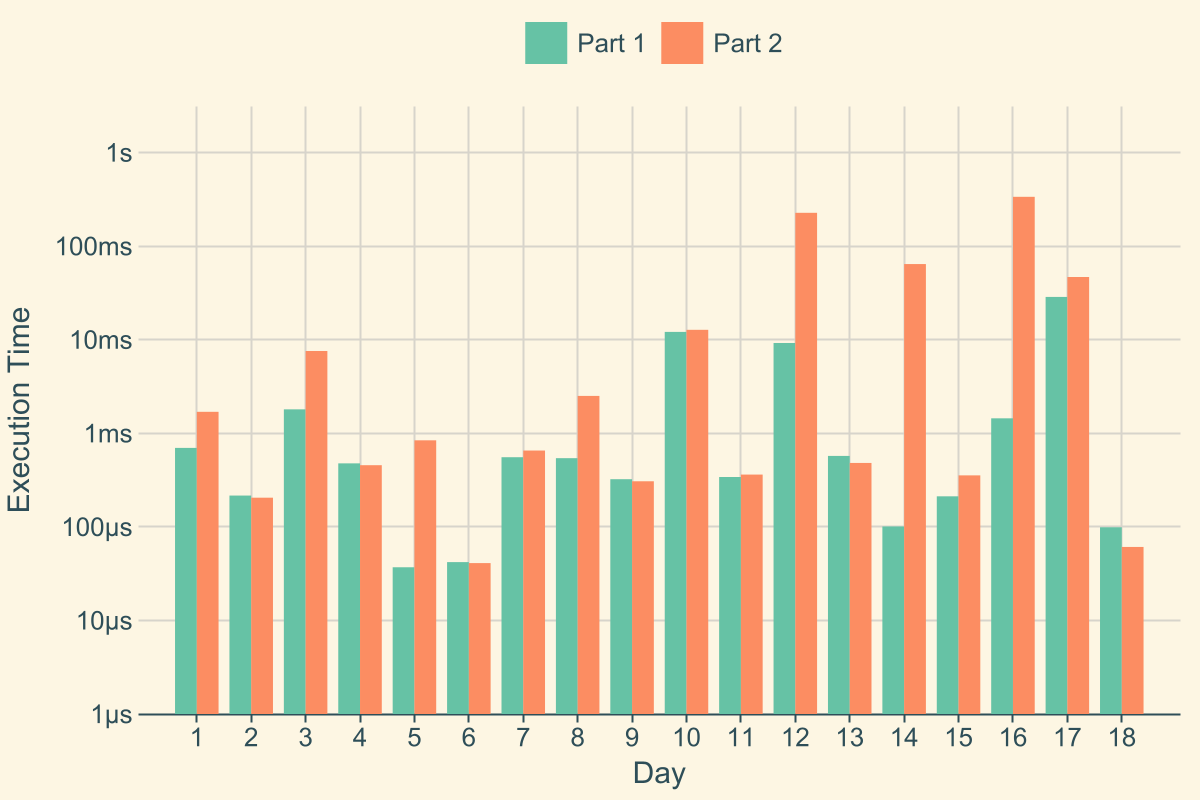
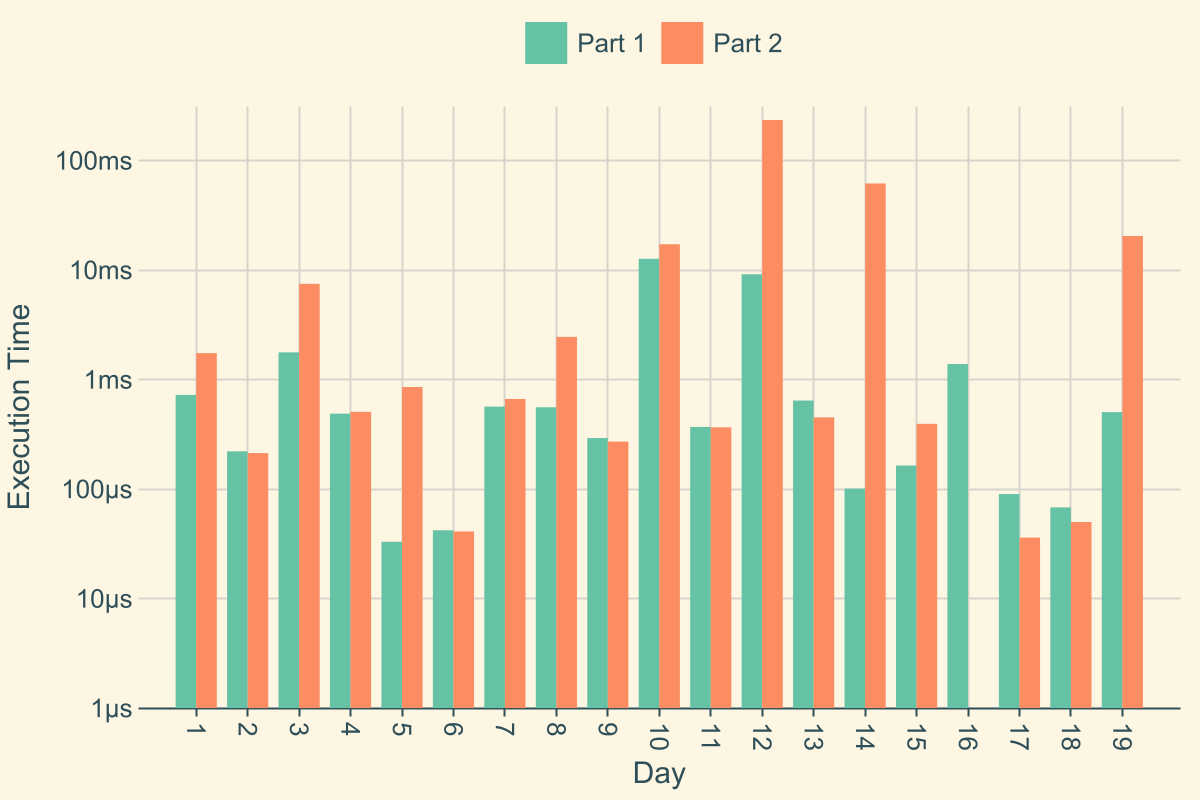
19

diff --git a/src/day19.rs b/src/day19.rs
@@ -1,0 +1,330 @@
+use std::collections::HashMap;
+use std::fmt::{Debug, Formatter};
+use std::str::FromStr;
+
+use crate::harness::{Day, Part};
+
+pub fn day19() -> Day<u32, u64> {
+    Day::new(19, Box::new(Part1 {}), Box::new(Part2 {}))
+}
+
+struct Part1;
+
+impl Part<u32> for Part1 {
+    fn expect_test(&self) -> u32 {
+        19114
+    }
+
+    fn solve(&self, input: &[String]) -> u32 {
+        let (workflows, mut machine_parts) = parse(input);
+
+        machine_parts.retain(|machine_part| {
+            let mut next = &Next::Workflow("in".to_string());
+
+            while let Next::Workflow(name) = next {
+                next = workflows[name].next(machine_part);
+            }
+
+            matches!(next, Next::Accept)
+        });
+
+        machine_parts.iter().map(|e| e.x + e.m + e.a + e.s).sum()
+    }
+}
+
+struct Part2;
+
+impl Part<u64> for Part2 {
+    fn expect_test(&self) -> u64 {
+        167409079868000
+    }
+
+    fn solve(&self, input: &[String]) -> u64 {
+        solve_part_2(&parse(input).0)
+            .iter()
+            .map(RecRanges::combinations)
+            .sum()
+    }
+}
+
+fn solve_part_2(map: &HashMap<String, Workflow>) -> Vec<RecRanges> {
+    solve_part_2_rec(map, &Next::Workflow("in".to_string()), RecRanges::default())
+}
+
+#[derive(Clone)]
+struct MyRange([bool; 4000]);
+
+impl Debug for MyRange {
+    fn fmt(&self, f: &mut Formatter<'_>) -> std::fmt::Result {
+        let x: String = self.0.map(|e| if e { '1' } else { '0' }).iter().collect();
+
+        write!(f, "{}", x)
+    }
+}
+
+impl MyRange {
+    pub fn new(min: u32, max_inclusive: u32) -> Self {
+        let mut x = [false; 4000];
+
+        for i in min..=max_inclusive {
+            x[i as usize - 1] = true;
+        }
+
+        Self(x)
+    }
+
+    fn count(&self) -> u64 {
+        self.0.iter().filter(|&&e| e).count() as u64
+    }
+
+    fn except(&mut self, rhs: &Self) {
+        for i in 0..4000 {
+            self.0[i] = self.0[i] && !rhs.0[i];
+        }
+    }
+
+    fn intersect(&mut self, rhs: &Self) {
+        for i in 0..4000 {
+            self.0[i] = self.0[i] && rhs.0[i];
+        }
+    }
+}
+
+impl From<&Rule> for MyRange {
+    fn from(rule: &Rule) -> Self {
+        match rule.operator {
+            Operator::GreaterThan => MyRange::new(rule.value + 1, 4000),
+            Operator::LessThan => MyRange::new(1, rule.value - 1),
+        }
+    }
+}
+
+impl Default for MyRange {
+    fn default() -> Self {
+        Self([true; 4000])
+    }
+}
+
+#[derive(Debug, Clone, Default)]
+struct RecRanges {
+    x: MyRange,
+    m: MyRange,
+    a: MyRange,
+    s: MyRange,
+}
+
+impl RecRanges {
+    fn combinations(&self) -> u64 {
+        self.x.count() * self.m.count() * self.a.count() * self.s.count()
+    }
+
+    fn get_range_mut(&mut self, rule: &Rule) -> &mut MyRange {
+        match rule.variable {
+            'x' => &mut self.x,
+            'm' => &mut self.m,
+            'a' => &mut self.a,
+            's' => &mut self.s,
+            _ => panic!(),
+        }
+    }
+}
+
+fn solve_part_2_rec(workflows: &HashMap<String, Workflow>, next: &Next, mut state: RecRanges) -> Vec<RecRanges> {
+    match next {
+        Next::Accept => vec![state],
+        Next::Reject => vec![],
+        Next::Workflow(name) => {
+            let mut result = vec![];
+
+            let workflow = &workflows[name];
+
+            for rule in &workflow.rules {
+                let mut next_state = state.clone();
+
+                next_state.get_range_mut(rule).intersect(&rule.into());
+                state.get_range_mut(rule).except(&rule.into());
+
+                result.append(&mut solve_part_2_rec(workflows, &rule.next, next_state));
+            }
+
+            result.append(&mut solve_part_2_rec(workflows, &workflow.on_all_false, state));
+
+            result
+        }
+    }
+}
+
+fn parse(input: &[String]) -> (HashMap<String, Workflow>, Vec<MachinePart>) {
+    let mut split = input.split(|e| e.is_empty());
+    let workflows =
+        split.next().unwrap().iter()
+            .map(|e| Workflow::from_str(e).unwrap())
+            .map(|e| (e.name.clone(), e))
+            .collect::<HashMap<_, _>>();
+    let machine_parts = split.next().unwrap().iter().map(|e| MachinePart::from_str(e).unwrap()).collect::<Vec<_>>();
+
+    (workflows, machine_parts)
+}
+
+#[derive(Debug)]
+enum Next {
+    Accept,
+    Reject,
+    Workflow(String),
+}
+
+impl FromStr for Next {
+    type Err = ();
+
+    fn from_str(s: &str) -> Result<Self, Self::Err> {
+        match s {
+            "A" => Ok(Self::Accept),
+            "R" => Ok(Self::Reject),
+            _ => Ok(Self::Workflow(s.to_string()))
+        }
+    }
+}
+
+#[derive(Debug)]
+enum Operator {
+    GreaterThan,
+    LessThan,
+}
+
+impl TryFrom<char> for Operator {
+    type Error = ();
+
+    fn try_from(value: char) -> Result<Self, Self::Error> {
+        match value {
+            '<' => Ok(Self::LessThan),
+            '>' => Ok(Self::GreaterThan),
+            _ => Err(()),
+        }
+    }
+}
+
+#[derive(Debug)]
+struct Workflow {
+    name: String,
+    rules: Vec<Rule>,
+    on_all_false: Next,
+}
+
+impl Workflow {
+    fn new(name: String, rules: Vec<Rule>, on_all_false: Next) -> Self {
+        Self { name, rules, on_all_false }
+    }
+
+    fn next(&self, machine_part: &MachinePart) -> &Next {
+        for rule in &self.rules {
+            if rule.check(machine_part) {
+                return &rule.next;
+            }
+        }
+
+        &self.on_all_false
+    }
+}
+
+impl FromStr for Workflow {
+    type Err = ();
+
+    fn from_str(s: &str) -> Result<Self, Self::Err> {
+        let mut split = s.split('{');
+        let name = split.next().unwrap();
+
+        let remainder = split.next().unwrap();
+        let remainder = &remainder[0..(remainder.len() - 1)];
+
+        let split1 = remainder.split(',').collect::<Vec<_>>();
+
+        let rules =
+            split1.iter()
+                .rev()
+                .skip(1)
+                .rev()
+                .map(|e| Rule::from_str(e).unwrap())
+                .collect::<Vec<_>>();
+
+        let result = split1.last().unwrap();
+
+        let accept = result.parse().unwrap();
+
+        Ok(Self::new(name.to_string(), rules, accept))
+    }
+}
+
+#[derive(Debug)]
+struct Rule {
+    variable: char,
+    operator: Operator,
+    value: u32,
+    next: Next,
+}
+
+impl Rule {
+    fn new(variable: char, operator: Operator, value: u32, next: Next) -> Self {
+        Self { variable, operator, value, next }
+    }
+
+    fn check(&self, machine_part: &MachinePart) -> bool {
+        let part_value = match self.variable {
+            'x' => machine_part.x,
+            'm' => machine_part.m,
+            'a' => machine_part.a,
+            's' => machine_part.s,
+            _ => panic!(),
+        };
+
+        match self.operator {
+            Operator::GreaterThan => part_value > self.value,
+            Operator::LessThan => part_value < self.value,
+        }
+    }
+}
+
+impl FromStr for Rule {
+    type Err = ();
+
+    fn from_str(s: &str) -> Result<Self, Self::Err> {
+        let mut chars = s.chars();
+        let variable = chars.next().unwrap();
+        let condition: Operator = chars.next().unwrap().try_into().unwrap();
+
+        let mut split = s[2..].split(':');
+
+        let value = split.next().unwrap().parse::<u32>().unwrap();
+        let next_workflow = split.next().unwrap().parse().unwrap();
+
+        Ok(Self::new(variable, condition, value, next_workflow))
+    }
+}
+
+#[derive(Debug)]
+struct MachinePart {
+    x: u32,
+    m: u32,
+    a: u32,
+    s: u32,
+}
+
+impl MachinePart {
+    fn new(x: u32, m: u32, a: u32, s: u32) -> Self {
+        Self { x, m, a, s }
+    }
+}
+
+impl FromStr for MachinePart {
+    type Err = ();
+
+    fn from_str(s: &str) -> Result<Self, Self::Err> {
+        let vec =
+            s[1..(s.len() - 1)]
+                .split(',')
+                .map(|e| &e[2..])
+                .map(|e| e.parse::<u32>().unwrap())
+                .collect::<Vec<_>>();
+
+        Ok(Self::new(vec[0], vec[1], vec[2], vec[3]))
+    }
+}

diff --git a/src/main.rs b/src/main.rs
@@ -23,7 +23,7 @@ use crate::day15::day15;
 use crate::day16::day16;
 use crate::day17::day17;
 use crate::day18::day18;
-// use crate::day19::day19;
+use crate::day19::day19;
 // use crate::day20::day20;
 // use crate::day21::day21;
 // use crate::day22::day22;
@@ -50,7 +50,7 @@ mod day15;
 mod day16;
 mod day17;
 mod day18;
-// mod day19;
+mod day19;
 // mod day20;
 // mod day21;
 // mod day22;
@@ -78,7 +78,7 @@ fn main() {
         day16().f(),
         day17().f(),
         day18().f(),
-        // day19().f(),
+        day19().f(),
         // day20().f(),
         // day21().f(),
         // day22().f(),
